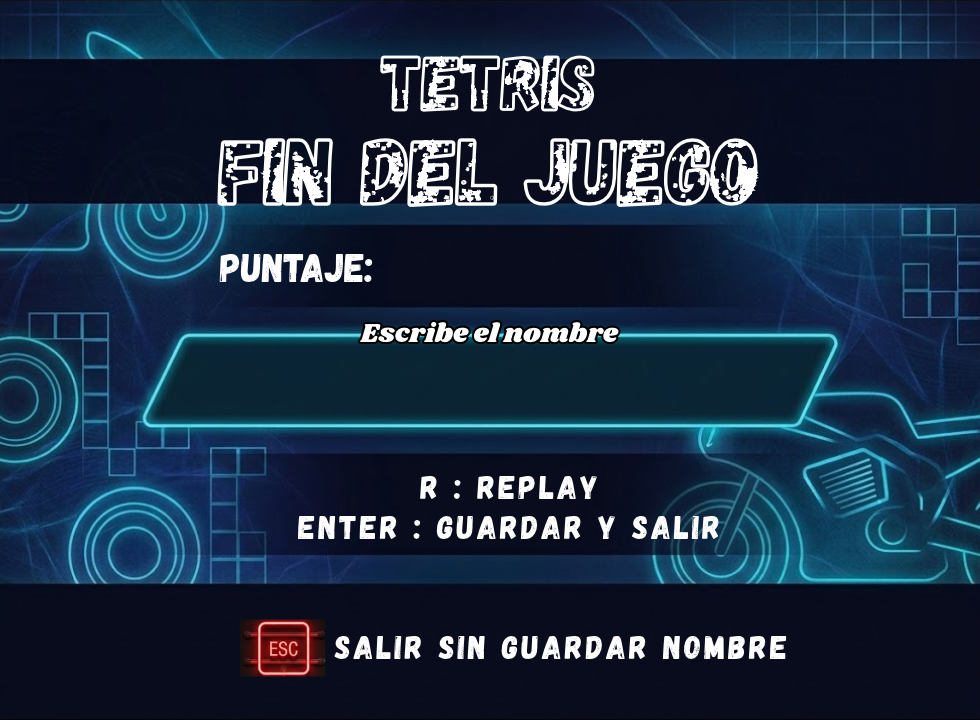
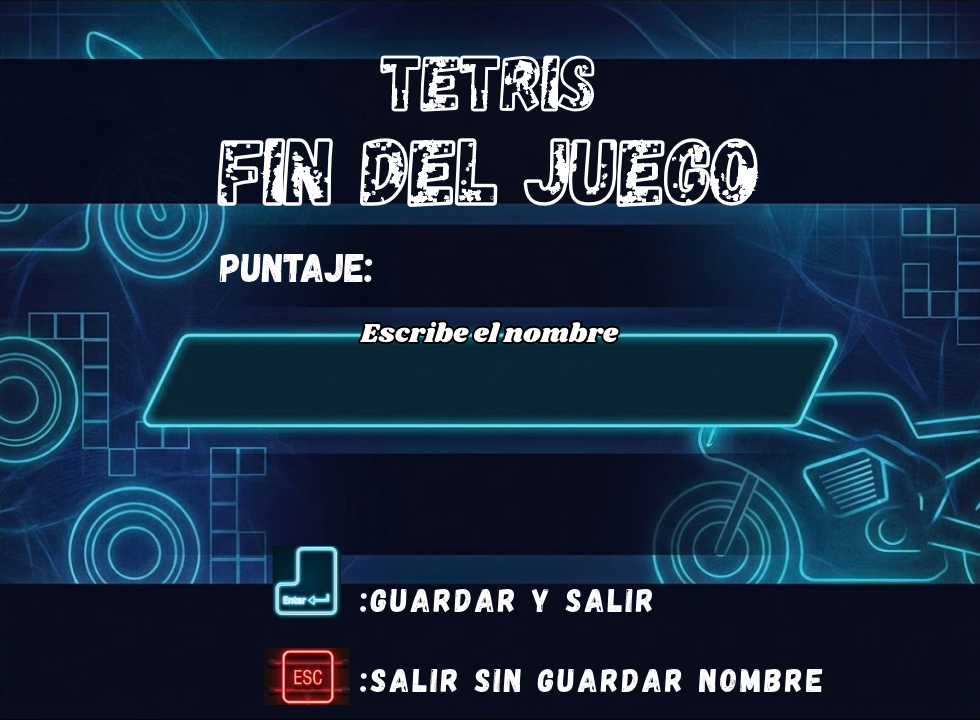
Boton en replay
Ya que nombre con R interferia en la opcion

Changed region(s): [[0.2449, 0.6417, 0.8571, 0.9778]]

diff --git a/GestorUI.cpp b/GestorUI.cpp
@@ -28,6 +28,11 @@ const int BTN_PAUSA_Y = 8;
 const int BTN_PAUSA_ANCHO = 60;
 const int BTN_PAUSA_ALTO = 30;
 
+const int BTN_REPLAY_X = 380;
+const int BTN_REPLAY_Y = 470;
+const int BTN_REPLAY_ANCHO = 220;
+const int BTN_REPLAY_ALTO = 50;
+
 GestorUI::GestorUI(RenderWindow& ventana, const Font& fuente)
     : ventana(ventana), fuente(fuente) {
     seleccionMenu = 0;
@@ -78,11 +83,18 @@ void GestorUI::procesarEventos(sf::Event& evento, Juego& contexto) {
                     contexto.pausar();
                 }
             }
-            if (contexto.getEstado() == MENU) {
+			if (contexto.getEstado() == MENU) {
                 int i = opcionEn(evento.mouseButton.x, evento.mouseButton.y);
                 if (i >= 0) {
                     seleccionMenu = i;
                     ejecutarOpcion(contexto, i);
+                }
+            }
+            if (contexto.getEstado() == GAME_OVER) {
+                if (clicEnBotonReplay(evento.mouseButton.x, evento.mouseButton.y)) {
+                    if (contexto.getTotalPasos() > 0) {
+                        contexto.iniciarReplay();
+                    }
                 }
             }
         }
@@ -141,12 +153,8 @@ void GestorUI::procesarEventos(sf::Event& evento, Juego& contexto) {
         } else if (tecla == Keyboard::Escape) {
             contexto.volverAlMenu();
         }
-    } else if (contexto.getEstado() == GAME_OVER) {
-        if (tecla == Keyboard::R) {
-            if (contexto.getTotalPasos() > 0) {
-                contexto.iniciarReplay();
-            }
-        } else if (tecla == Keyboard::Escape) {
+} else if (contexto.getEstado() == GAME_OVER) {
+        if (tecla == Keyboard::Escape) {
             contexto.volverAlMenu();
         }
     } else if (contexto.getEstado() == REPLAY) {
@@ -393,6 +401,23 @@ void GestorUI::dibujarGameOver(RenderWindow& ventana, const Juego& juego) const 
     FloatRect b = t.getLocalBounds();
     t.setPosition(490.0f - b.width / 2.0f, 342.0f);
     ventana.draw(t);
+
+    RectangleShape boton(Vector2f((float)BTN_REPLAY_ANCHO, (float)BTN_REPLAY_ALTO));
+    boton.setPosition((float)BTN_REPLAY_X, (float)BTN_REPLAY_Y);
+    boton.setFillColor(Color(66, 133, 244));
+    boton.setOutlineColor(Color(255, 255, 255));
+    boton.setOutlineThickness(2.0f);
+    ventana.draw(boton);
+
+    Text etiqueta;
+    etiqueta.setFont(fuente);
+    etiqueta.setString("Ver Replay");
+    etiqueta.setCharacterSize(22);
+    etiqueta.setFillColor(Color(255, 255, 255));
+    FloatRect lb = etiqueta.getLocalBounds();
+    etiqueta.setPosition((float)(BTN_REPLAY_X + (BTN_REPLAY_ANCHO - (int)lb.width) / 2),
+                         (float)(BTN_REPLAY_Y + (BTN_REPLAY_ALTO - (int)lb.height) / 2));
+    ventana.draw(etiqueta);
 }
 
 void GestorUI::dibujarRanking(RenderWindow& ventana, const Juego& juego) const {
@@ -419,6 +444,10 @@ void GestorUI::dibujarRanking(RenderWindow& ventana, const Juego& juego) const {
 
 bool GestorUI::clicEnBotonPausa(int x, int y) const {
     return x >= BTN_PAUSA_X && x < BTN_PAUSA_X + BTN_PAUSA_ANCHO && y >= BTN_PAUSA_Y && y < BTN_PAUSA_Y + BTN_PAUSA_ALTO;
+}
+
+bool GestorUI::clicEnBotonReplay(int x, int y) const {
+    return x >= BTN_REPLAY_X && x < BTN_REPLAY_X + BTN_REPLAY_ANCHO && y >= BTN_REPLAY_Y && y < BTN_REPLAY_Y + BTN_REPLAY_ALTO;
 }
 
 int GestorUI::opcionEn(int x, int y) const {

diff --git a/Tablero.h b/Tablero.h
@@ -27,7 +27,7 @@ public:
     const int* getFila(int i) const;
     void setCelda(int fila, int col, int valor);
     int getCelda(int fila, int col) const;
-    void ponesFicha(int tipo, int rot, int fila, int col);
+    void ponerFicha(int tipo, int rot, int fila, int col);
     bool colision(int tipo, int rot, int fila, int col) const;
     int filasCompletas(int salida[20]) const;
     int borrarFilas(int* indices, int n);

diff --git a/Juego.cpp b/Juego.cpp
@@ -113,7 +113,7 @@ void Juego::bloquearPieza() {
     if (estado != JUGANDO) {
         return;
     }
-    tablero.ponesFicha(tipoActual, rotActual, filaActual, colActual);
+    tablero.ponerFicha(tipoActual, rotActual, filaActual, colActual);
 
     int completas[20];
     int n = tablero.filasCompletas(completas);

diff --git a/Tablero.cpp b/Tablero.cpp
@@ -119,7 +119,7 @@ bool Tablero::colision(int tipo, int rot, int fila, int col) const {
     return false;
 }
 
-void Tablero::ponesFicha(int tipo, int rot, int fila, int col) {
+void Tablero::ponerFicha(int tipo, int rot, int fila, int col) {
     int n = numCeldas(tipo);
     int k;
     for (k = 0; k < n; k++) {

diff --git a/GestorUI.h b/GestorUI.h
@@ -47,6 +47,7 @@ private:
     void dibujarRanking(RenderWindow& ventana, const Juego& juego) const;
 
     bool clicEnBotonPausa(int x, int y) const;
+    bool clicEnBotonReplay(int x, int y) const;
     int opcionEn(int x, int y) const;
     void ejecutarOpcion(Juego& juego, int opcion);
 
